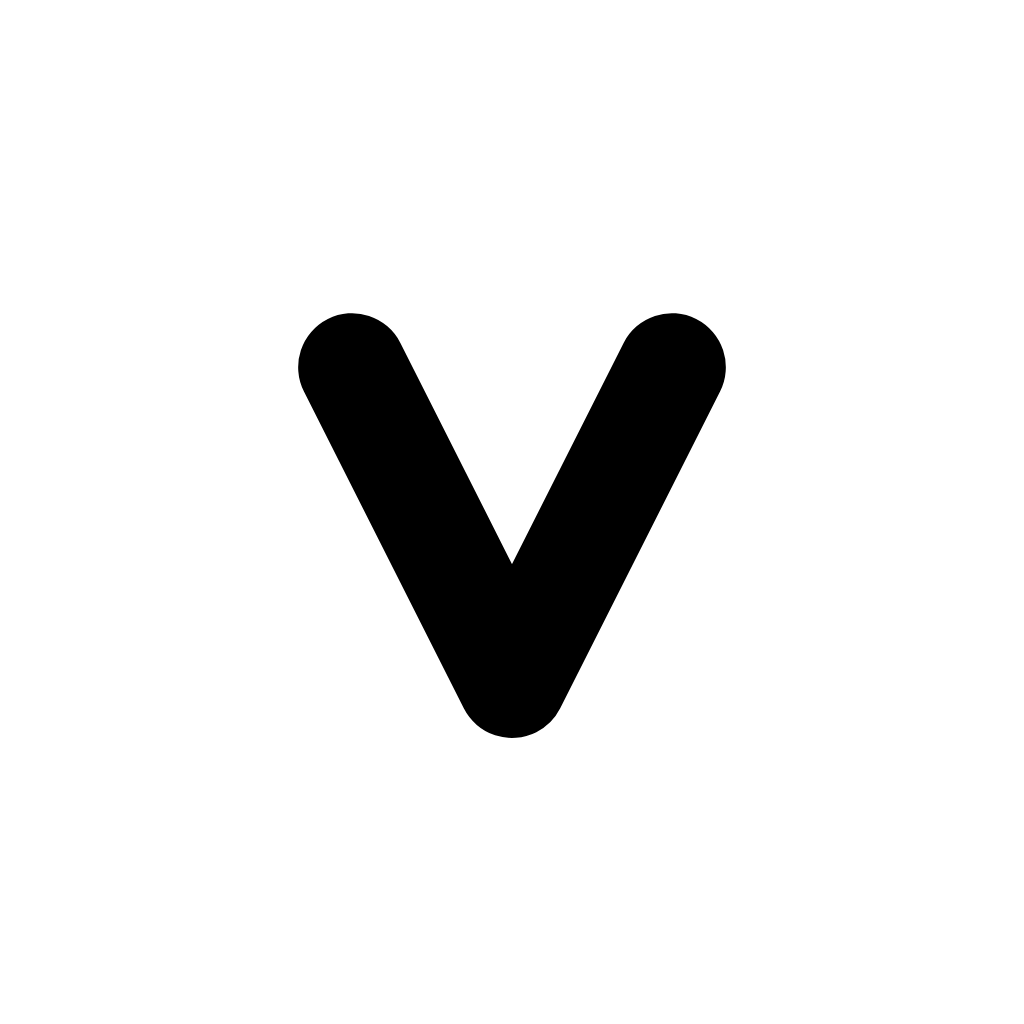
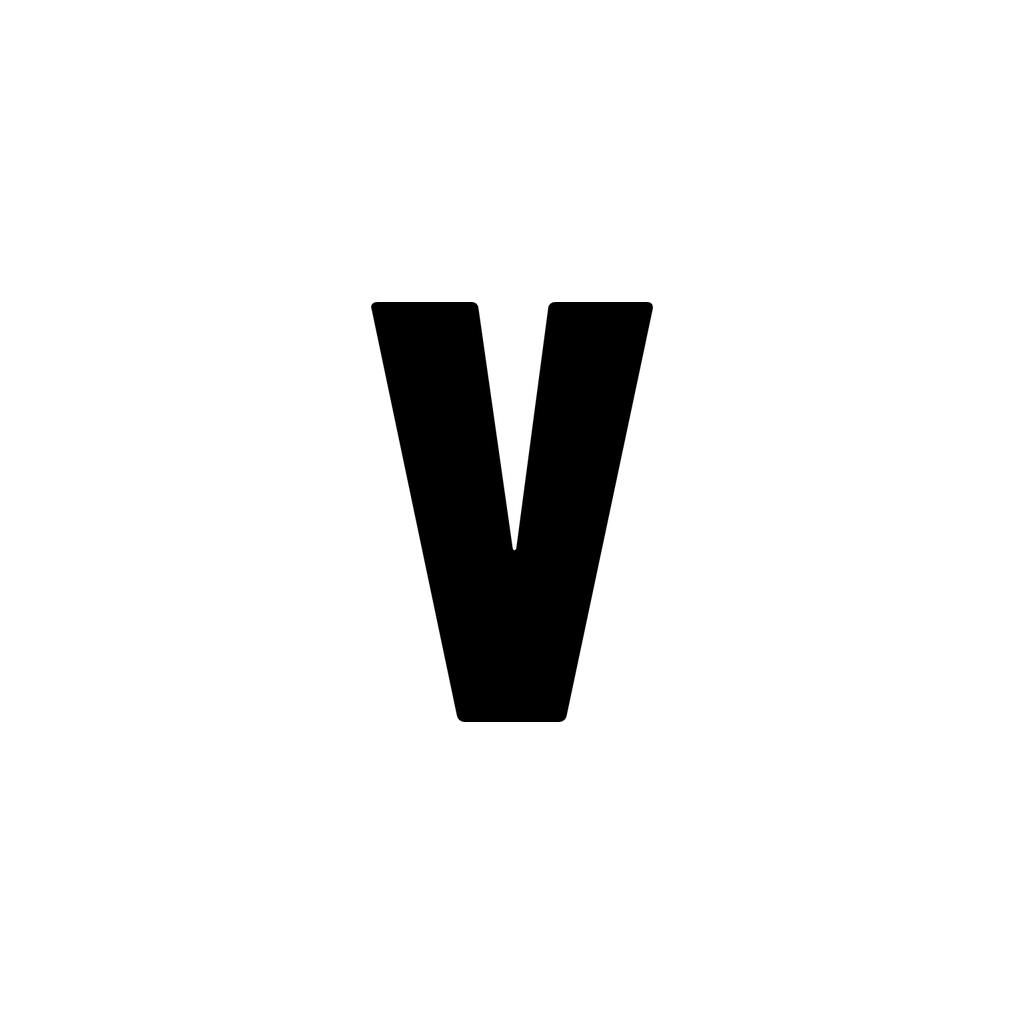
Nuevo icono (V crema sobre terracota) y pantalla de carga con expo-splash-screen (clara y oscura)
Claude-Session: https://claude.ai/code/session_017aCmgmph6r21FVkV1vRHQa

Changed region(s): [[0.2812, 0.2812, 0.7188, 0.6562], [0.4375, 0.6562, 0.5625, 0.7188]]

diff --git a/README.md b/README.md
@@ -88,6 +88,10 @@ Estilo «línea del día»: fondo crema (oscuro equivalente), tarjetas blancas c
 - **Plan:** menú con el planificador, la lista de la compra, el diario, archivos de dieta, alimentos y recetas, rutinas, historial y biblioteca.
 - Las pantallas interiores (planificador, rutinas, progreso, perfil…) heredan colores y letra, pero aún no están rediseñadas una a una.
 
+## Icono y pantalla de carga
+
+Icono: una «V» crema sobre terracota (Barlow Condensed). En Android es adaptable (fondo liso terracota + primer plano dentro de la zona segura + versión monocroma para iconos con tema). La pantalla de carga usa `expo-splash-screen` (plugin en `app.json`): el icono redondeado y «VIGOR» sobre crema, y una versión oscura. Los archivos están en `assets/`. **Solo se ven con un APK nuevo** (Expo Go muestra el icono de la app en vez de la pantalla de carga); conviene revisar en un móvil real cómo Android 12+ recorta la imagen central.
+
 ## Notas de dependencias
 
 Las versiones de los módulos nativos están fijadas a las que incluye Expo Go para el SDK 58 (`node_modules/expo/bundledNativeModules.json`). Importante: `@react-native-async-storage/async-storage` debe ser la **2.2.0**; la 3.x necesita un módulo nativo que Expo Go no trae y rompe el inicio de sesión en el móvil.
